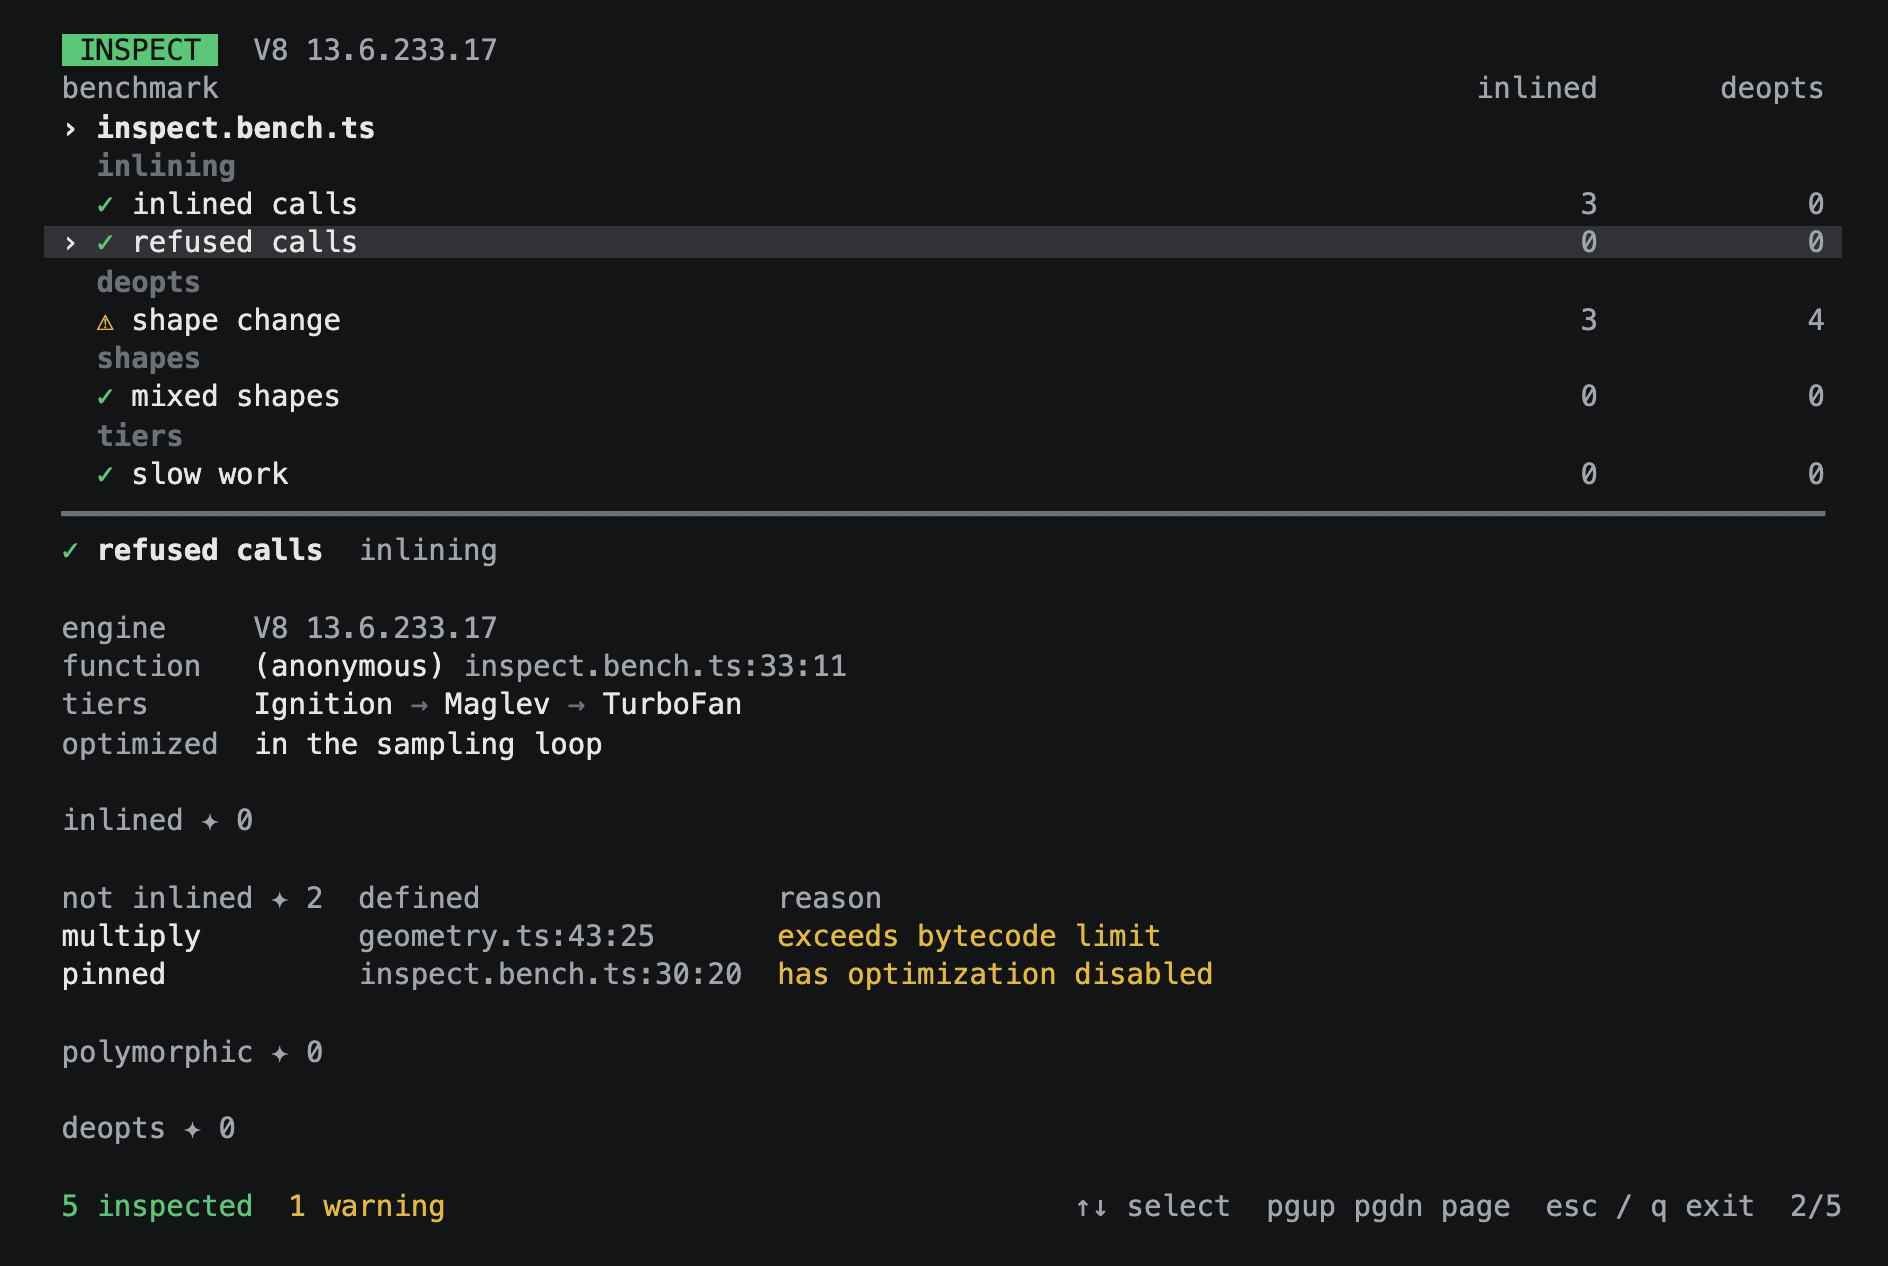
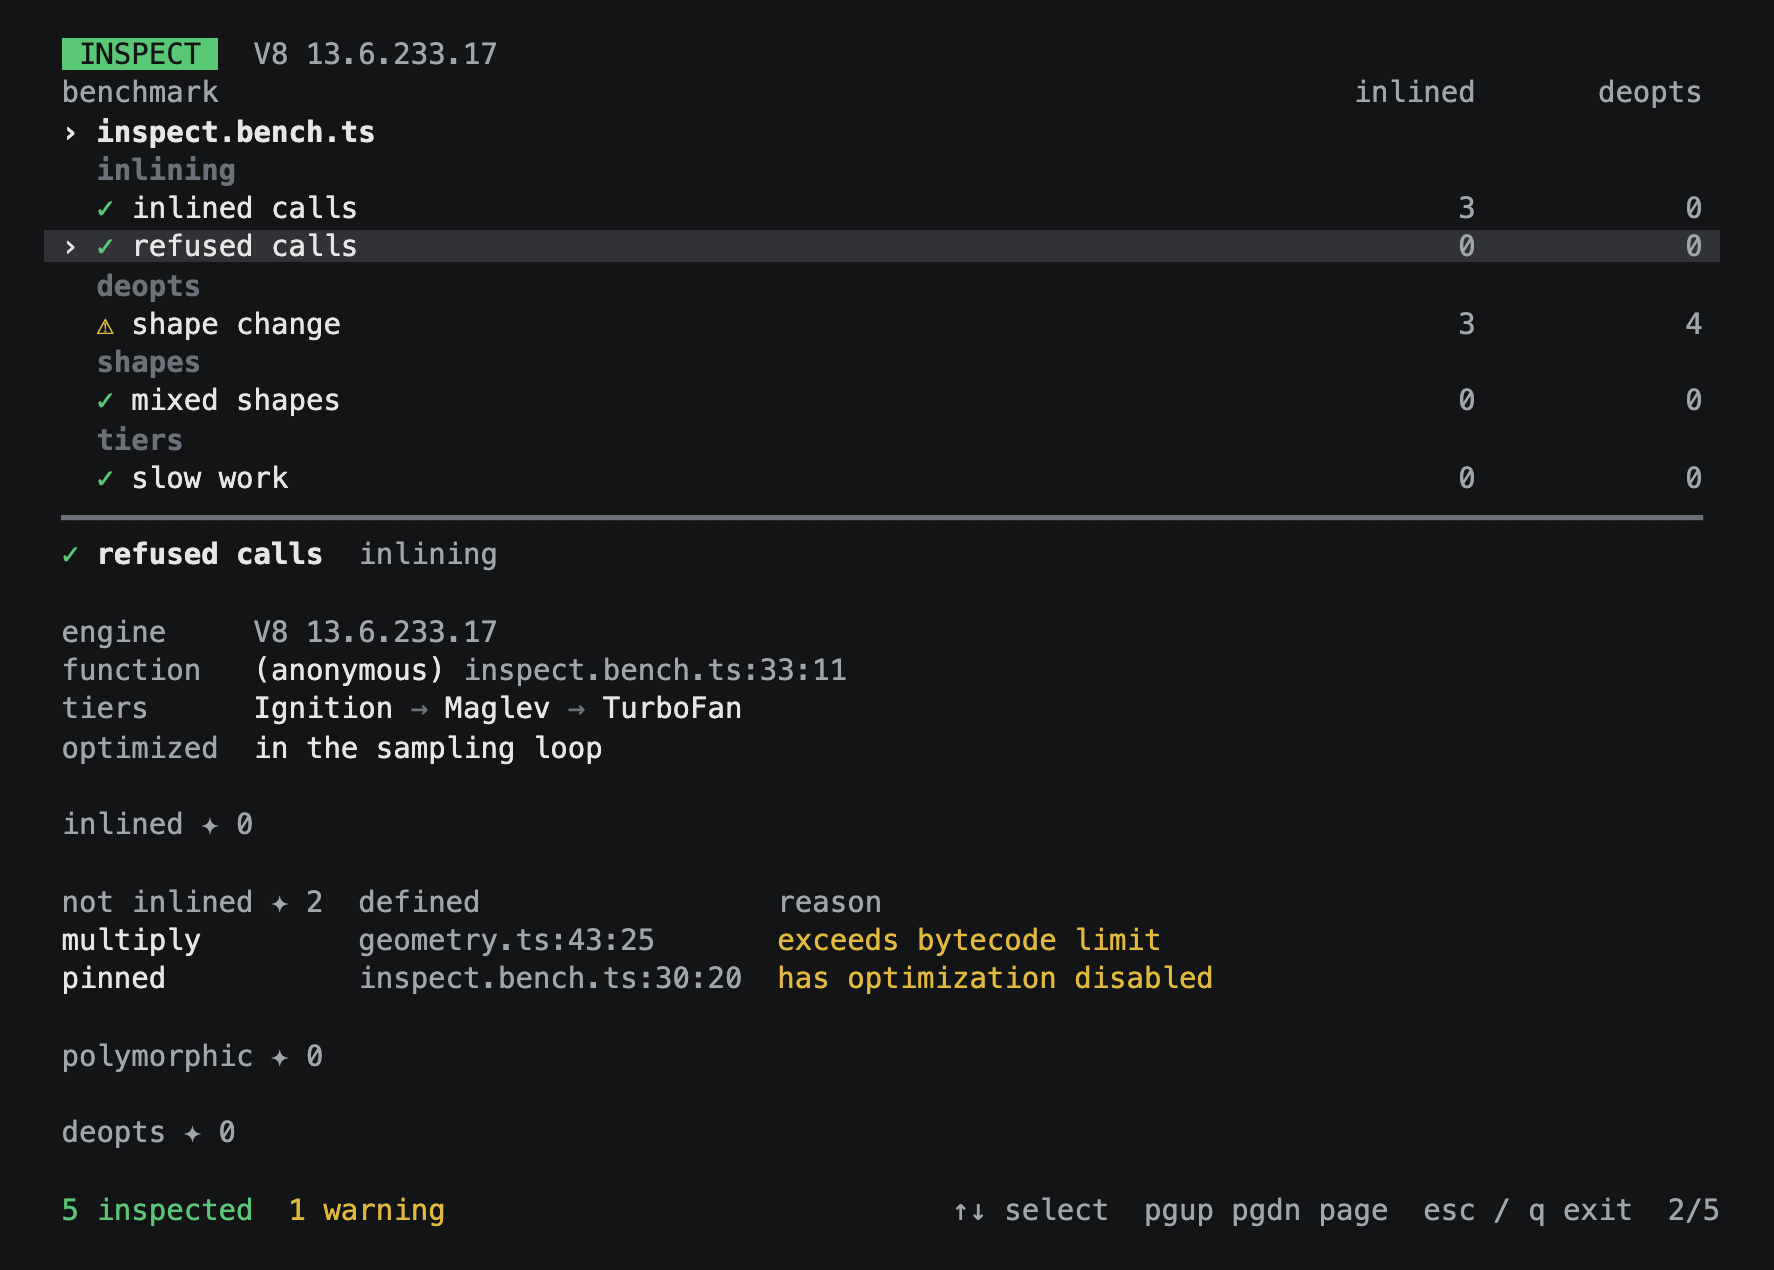
📝 Describe inspect by what it is for and refresh its screenshots

diff --git a/src/cli/inspect-view.ts b/src/cli/inspect-view.ts
@@ -176,10 +176,24 @@ export function renderInspectView(benches: Bench[], state: TerminalViewState): T
     };
   }
   const innerWidth = width - 2;
+  const list: Array<{ text: string; index?: number; style?: string }> = [];
+  let previousFile = '';
+  let previousGroup = '';
+  benches.forEach((entry, index) => {
+    if (entry.file !== previousFile) {
+      list.push({ text: `› ${entry.file}` });
+      previousFile = entry.file;
+      previousGroup = '';
+    }
+    if (entry.group && entry.group !== previousGroup)
+      list.push({ text: `  ${entry.group}`, style: BOLD + DARK_GRAY });
+    previousGroup = entry.group;
+    list.push({ text: entry.name, index });
+  });
   const detailLines = details(benches[selected], innerWidth, colors);
-  // The findings are the point of this screen, so they take the room the
-  // list can spare.
-  const detailHeight = Math.min(detailLines.length + 1, height - 10);
+  // The findings are the point of this screen, so they take every row a short
+  // list leaves free and all but six rows of a long one.
+  const detailHeight = Math.min(detailLines.length + 1, height - 4 - Math.min(list.length, 6));
   const detailTop = height - detailHeight - 1;
   const pageSize = detailTop - 3;
   const maxDetailOffset = Math.max(0, detailLines.length - detailHeight + 1);
@@ -195,20 +209,6 @@ export function renderInspectView(benches: Bench[], state: TerminalViewState): T
     canvas.put(y, nameWidth + 16, deopts, GRAY, 11, true);
   };
   listRow(1, 'benchmark', 'inlined', 'deopts', true);
-  const list: Array<{ text: string; index?: number; style?: string }> = [];
-  let previousFile = '';
-  let previousGroup = '';
-  benches.forEach((entry, index) => {
-    if (entry.file !== previousFile) {
-      list.push({ text: `› ${entry.file}` });
-      previousFile = entry.file;
-      previousGroup = '';
-    }
-    if (entry.group && entry.group !== previousGroup)
-      list.push({ text: `  ${entry.group}`, style: BOLD + DARK_GRAY });
-    previousGroup = entry.group;
-    list.push({ text: entry.name, index });
-  });
   const activeRow = Math.max(
     0,
     list.findIndex((row) => row.index === selected)

diff --git a/README.md b/README.md
@@ -116,28 +116,33 @@ bench --against ../wt-a --candidate ../wt-b
 
 ### Inspect
 
-See what V8 did with your benchmarks.
+> [!NOTE]
+> Inspect currently only works with V8, through the Node runtime.
+
+Use `inspect` to see how your code is compiled at runtime, and use that feedback to optimize it.
 
 ```sh
 bench inspect
-# Or filter by file name and tag, and list the bytecode of each bench
-bench inspect vec3 @mytag --bytecode
+# Or filter by file name and tag
+bench inspect vec3 @mytag
 ```
 
-Browse the findings in a full-screen view. Select a benchmark to see the tiers it climbed, the calls V8 inlined or refused, the property accesses that saw several object shapes, and every deopt with its reason and position. Inspection runs on Node. See the [inspect example](examples/inspect) for benches that produce each kind of finding.
+Browse the findings in a full-screen view. Select a benchmark to see which tiers it reached, which calls were inlined and which were refused, which property accesses see too many object shapes, and where optimized code was thrown away and why. Every finding names a file and line, so it tells you what to change: split a function that is too large to inline, keep objects in one shape, or remove what causes a deopt. Then inspect again to see whether it took.
 
-<img src="docs/images/inspect.png" width="760" alt="Labs inspect view with a benchmark list and, for the selected bench, its path through V8's tiers, inlined calls, polymorphic property accesses, and deopts with their reasons and positions" />
+Agents are very good at this. Hand one `bench inspect --json` and let it work through the findings. See the [inspect example](examples/inspect) for benches that produce each kind of finding.
+
+<img src="docs/images/inspect.png" width="760" alt="Labs inspect view with a benchmark list and, for the selected bench, the tiers it reached, the calls that were inlined or refused, a megamorphic property access, and two deopts with their reasons and positions" />
 
 <details>
 <summary>How to read the results</summary>
 
-- **tiers**: The path the workload took up to the end of sampling: each tier it rose to, and `deopt` wherever V8 threw its optimized code away and it had to climb again. The last entry is what it was running when sampling ended.
-- **optimized**: Whether TurboFan compiled the workload `alone` or inlined it `in the sampling loop` that Labs times it in.
-- **inlined**: Calls TurboFan replaced with the body of the function they call, nested under their caller. Each shows where the function is defined, where it is called, and the size of its bytecode.
-- **not inlined**: Functions of yours the optimizer looked at and left as calls, with V8's reason when it gives one.
-- **polymorphic**: Property accesses that saw more than one object shape, in the workload and what was inlined into it. An access is `polymorphic` while V8 still tracks each shape and `megamorphic` once it has given up, which it does after four. The count of a megamorphic access is a lower bound, because V8 only reports where an access is while its function runs unoptimized. A method call shows up through the load of its method. Calls to different functions through one variable are not reported.
-- **deopts**: Every time V8 threw away optimized code of the workload during warmup or sampling, with the tier, V8's reason, and the position. A position inside an inlined call is followed by the call sites it was reached through.
-- **bytecode**: The Ignition bytecode of the workload by source position. Addresses are left out so two reports can be diffed.
+- **tiers**: The path the workload took up to the end of sampling: each tier it rose to, and `deopt` wherever the engine threw its optimized code away and it had to climb again. The last entry is what it was running when sampling ended.
+- **optimized**: Whether the optimizer compiled the workload `alone` or inlined it `in the sampling loop` that Labs times it in.
+- **inlined**: Calls the optimizer replaced with the body of the function they call, nested under their caller. Each shows where the function is defined, where it is called, and the size of its bytecode.
+- **not inlined**: Functions of yours the optimizer looked at and left as calls, with the engine's reason when it gives one.
+- **polymorphic**: Property accesses that saw more than one object shape, in the workload and what was inlined into it. An access is `polymorphic` while the engine still tracks each shape and `megamorphic` once it has given up, which is the slow case. The count of a megamorphic access is a lower bound. A method call shows up through the load of its method. Calls to different functions through one variable are not reported.
+- **deopts**: Every time the engine threw away optimized code of the workload during warmup or sampling, with the tier, the engine's reason, and the position. A position inside an inlined call is followed by the call sites it was reached through.
+- **bytecode**: With `--bytecode`, the bytecode of the workload by source position. Addresses are left out so two reports can be diffed.
 
 </details>
 
@@ -356,18 +361,18 @@ Without an interactive terminal, labs never prompts. Commands that would open a 
 pnpm bench --json                       # judged results as JSON on stdout
 pnpm bench -c --json --fail-on-slower   # also compare against the baseline
 pnpm bench compare "v1.3.0" --json      # judged comparison of a saved result
-pnpm bench inspect --json               # what V8 did with each bench
+pnpm bench inspect --json               # what the engine did with each bench
 ```
 
 With `--json`, stdout holds only the JSON document and everything else goes to stderr. Each bench has a `status` (`passed`, `warning`, or `failed`), a `problem` and `advice` when it has one, and its `minDetectableChange`. Comparison verdicts are `faster`, `slower`, `neutral`, `inconclusive` (neutral, but a `minDelta` change could have been missed), `changed`, `failed`, `skipped`, or `missing`.
 
-An inspection gives each bench the same `status`, `problem` and `advice` a run gives it, with what V8 did under `inspection`, or `null` when the bench failed or V8 reported nothing. Its `bytecode` is `null` unless `--bytecode` is passed.
+An inspection gives each bench the same `status`, `problem` and `advice` a run gives it, with what the engine did under `inspection`, or `null` when the bench failed or the engine reported nothing. Its `bytecode` is `null` unless `--bytecode` is passed.
 
 Failed checks and changed output exit with 1. With `--fail-on-slower`, a slower bench also exits with 1, and a comparison that could have missed a change exits with 2: an inconclusive or skipped bench, or a candidate that ran on an unstable machine.
 
-## Inspecting what V8 did
+## Inspecting
 
-`bench inspect` runs each selected bench once in a fresh process with V8's logs on. It reports what the engine did with the workload instead of how long it took. It takes the same file and `@tag` filters as a run and saves nothing.
+`bench inspect` runs each selected bench once in a fresh process with the engine's own logging on. It reports what the engine did with the workload instead of how long it took. It takes the same file and `@tag` filters as a run and saves nothing.
 
 ```sh
 pnpm bench inspect vector              # every bench in the matching file
@@ -378,28 +383,30 @@ pnpm bench inspect --json              # the same report as JSON on stdout
 Outside a terminal the findings print as text:
 
 ```
-✓ path length
+⚠ path length
+TurboFan deoptimized during sampling
 
 engine     V8 13.6.233.17
-function   (anonymous) work.bench.ts:4:22
-tiers      Ignition → Maglev → TurboFan → deopt → Maglev → TurboFan
+function   (anonymous) vector.bench.ts:15:9
+tiers      Ignition → Sparkplug → Maglev → TurboFan → deopt → Maglev → TurboFan
 optimized  in the sampling loop
 
-inlined ✦ 2  defined             called at           bytecode
-distance     lib/vector.ts:3:21  work.bench.ts:6:50  61 B
-  lengthSq   lib/vector.ts:2:25  lib/vector.ts:3:65  29 B
+inlined ✦ 2  defined              called at              bytecode
+distance     lib/vector.ts:10:25  vector.bench.ts:19:52  61 B
+  lengthSq   lib/vector.ts:6:25   lib/vector.ts:11:20    29 B
 
-not inlined ✦ 1  defined             reason
-transform        lib/vector.ts:4:20  exceeds bytecode limit
+not inlined ✦ 1  defined              reason
+transform        lib/vector.ts:24:26  exceeds bytecode limit
 
 polymorphic ✦ 1  access   shapes  position
-megamorphic      load id  5+      work.bench.ts:7:31
+megamorphic      load id  6+      vector.bench.ts:18:50
 
-deopts ✦ 1  tier      kind         reason     position
-sampling    TurboFan  deopt-eager  wrong map  lib/vector.ts:3:87 ← work.bench.ts:6:50
+deopts ✦ 2  tier      kind         reason     position
+sampling    TurboFan  deopt-eager  not a Smi  vector.bench.ts:16:15
+sampling    TurboFan  deopt-eager  not a Smi  vector.bench.ts:16:15
 ```
 
-Inspection supports the Node runtime only and has been run on Node 24 to 26. It needs a plain JavaScript function as the workload and `--allow-natives-syntax` in `nodeFlags` with no V8 log or trace flags of your own. Anything a bench prints to stdout is not shown, because V8 writes its traces there. It follows the workload and what was inlined into it, not the functions it calls without inlining. Tracing slows the code down and compilation runs on the main thread, so take timings from a normal run.
+For now inspection supports V8 through the Node runtime and has been run on Node 24 to 26. It needs a plain JavaScript function as the workload and `--allow-natives-syntax` in `nodeFlags` with no V8 log or trace flags of your own. Anything a bench prints to stdout is not shown, because V8 writes its traces there. It follows the workload and what was inlined into it, not the functions it calls without inlining. Tracing slows the code down and compilation runs on the main thread, so take timings from a normal run.
 
 ## Writing a bench
 
